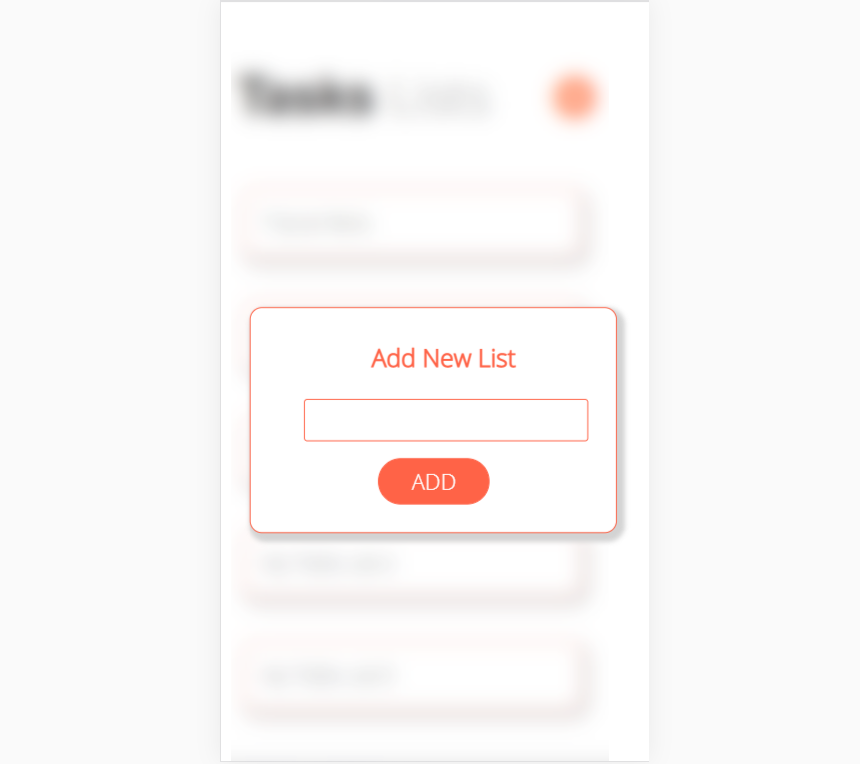
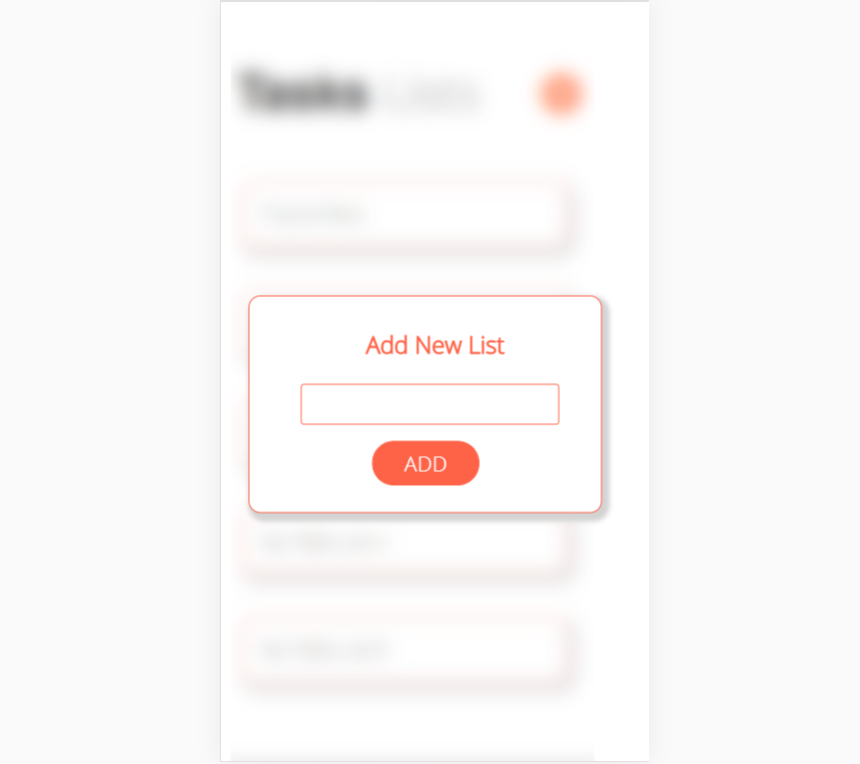
updated the files

diff --git a/third-page.css b/third-page.css
@@ -48,6 +48,7 @@ body{
     width: 263px;
     box-shadow: 3px 4px 4px 3px lightgray;
     
+    
 }
 
 /* popup container  */
@@ -80,9 +81,10 @@ body{
     margin-bottom: 5px;
     width: 200px;
     margin-left: 2em;
-    padding-right: 2em;
+    padding-right: 1em;
     
    
 }
+
 
 }
